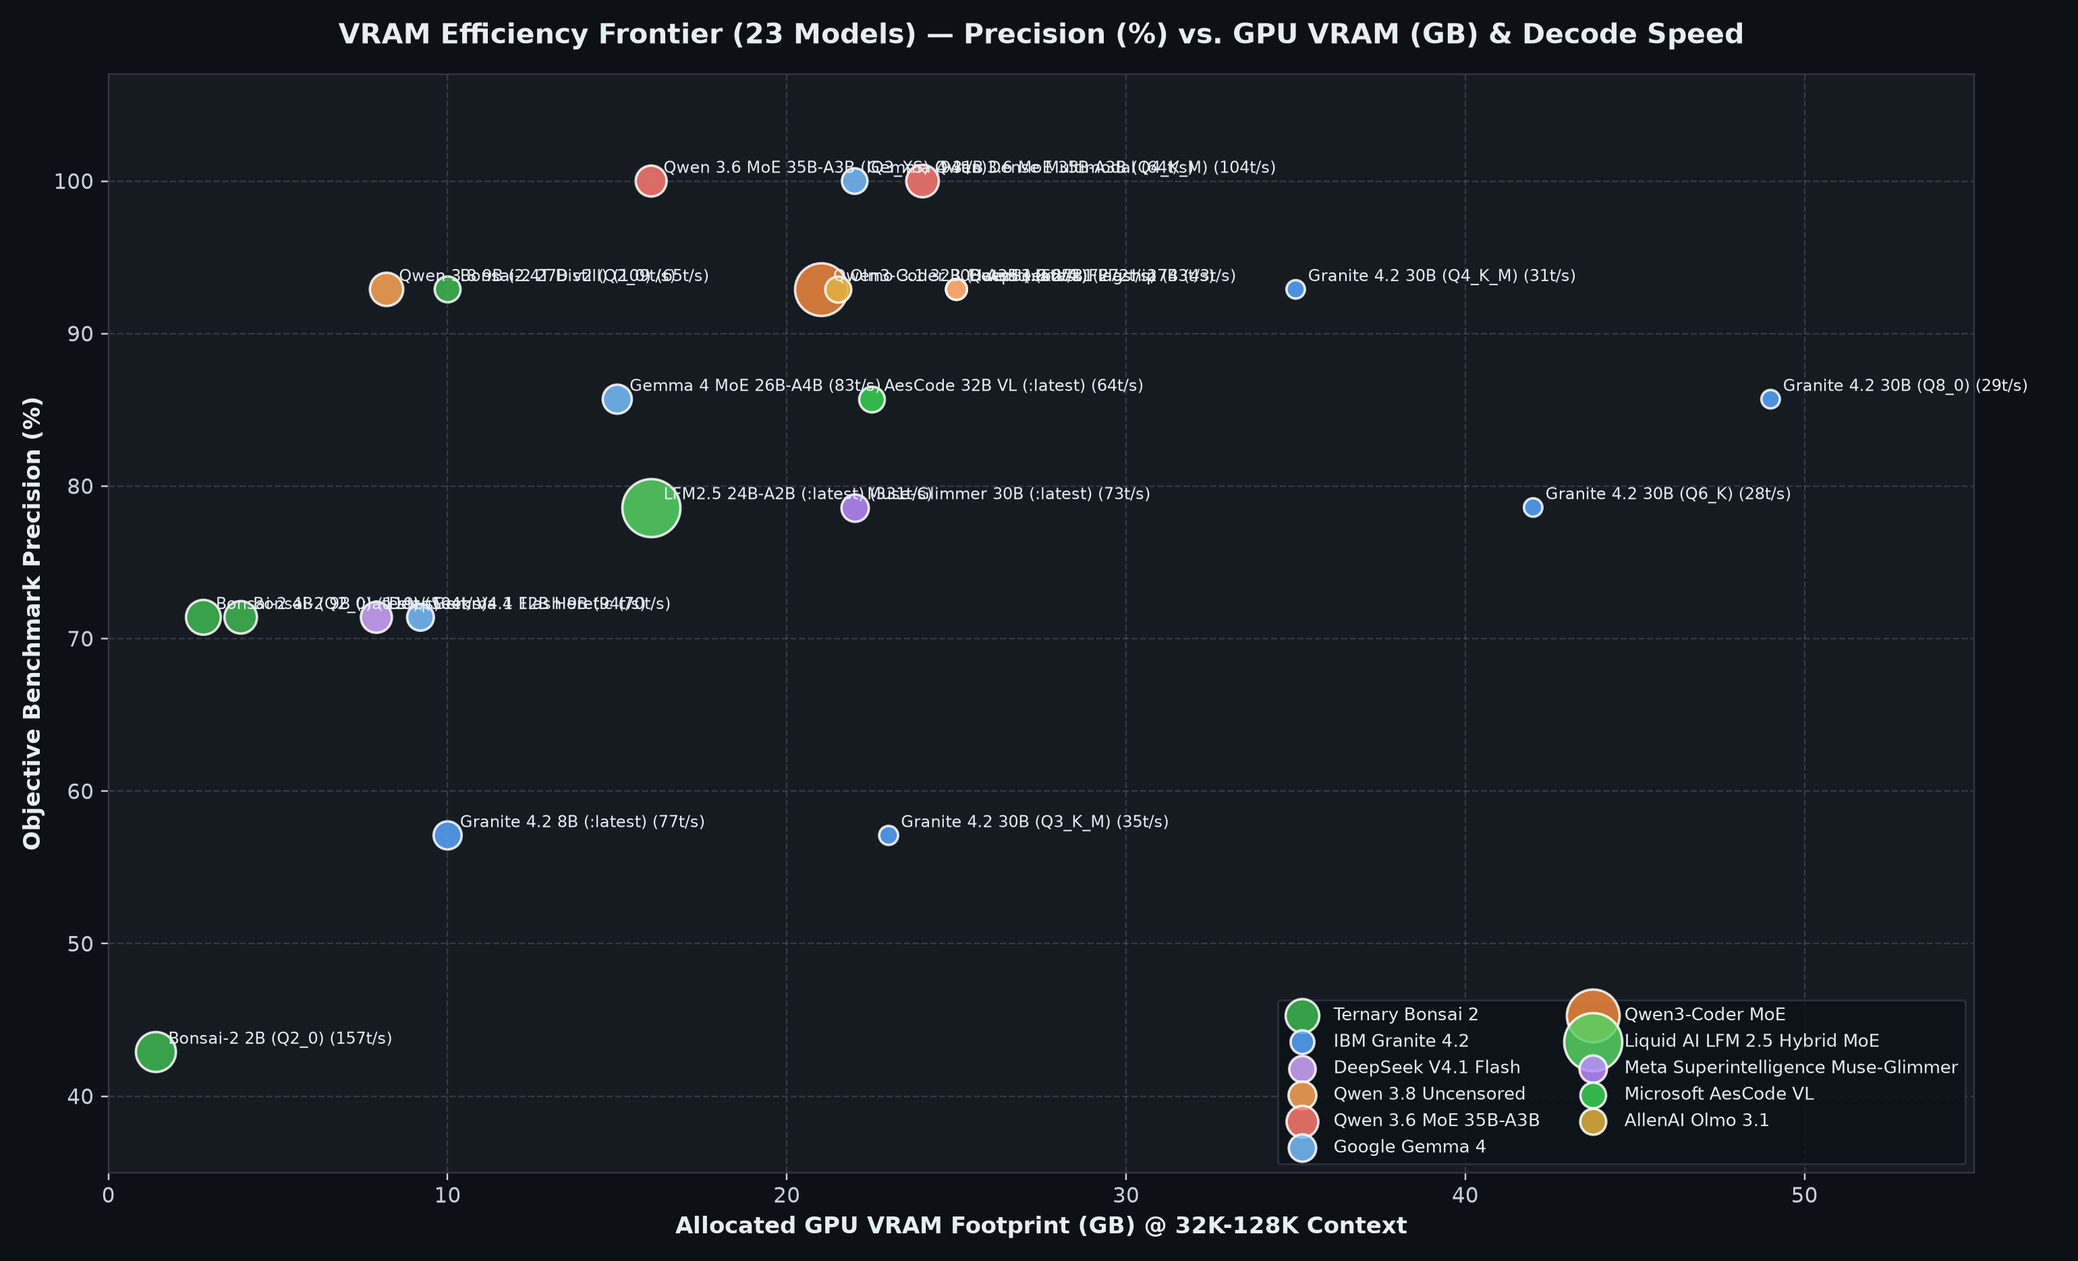
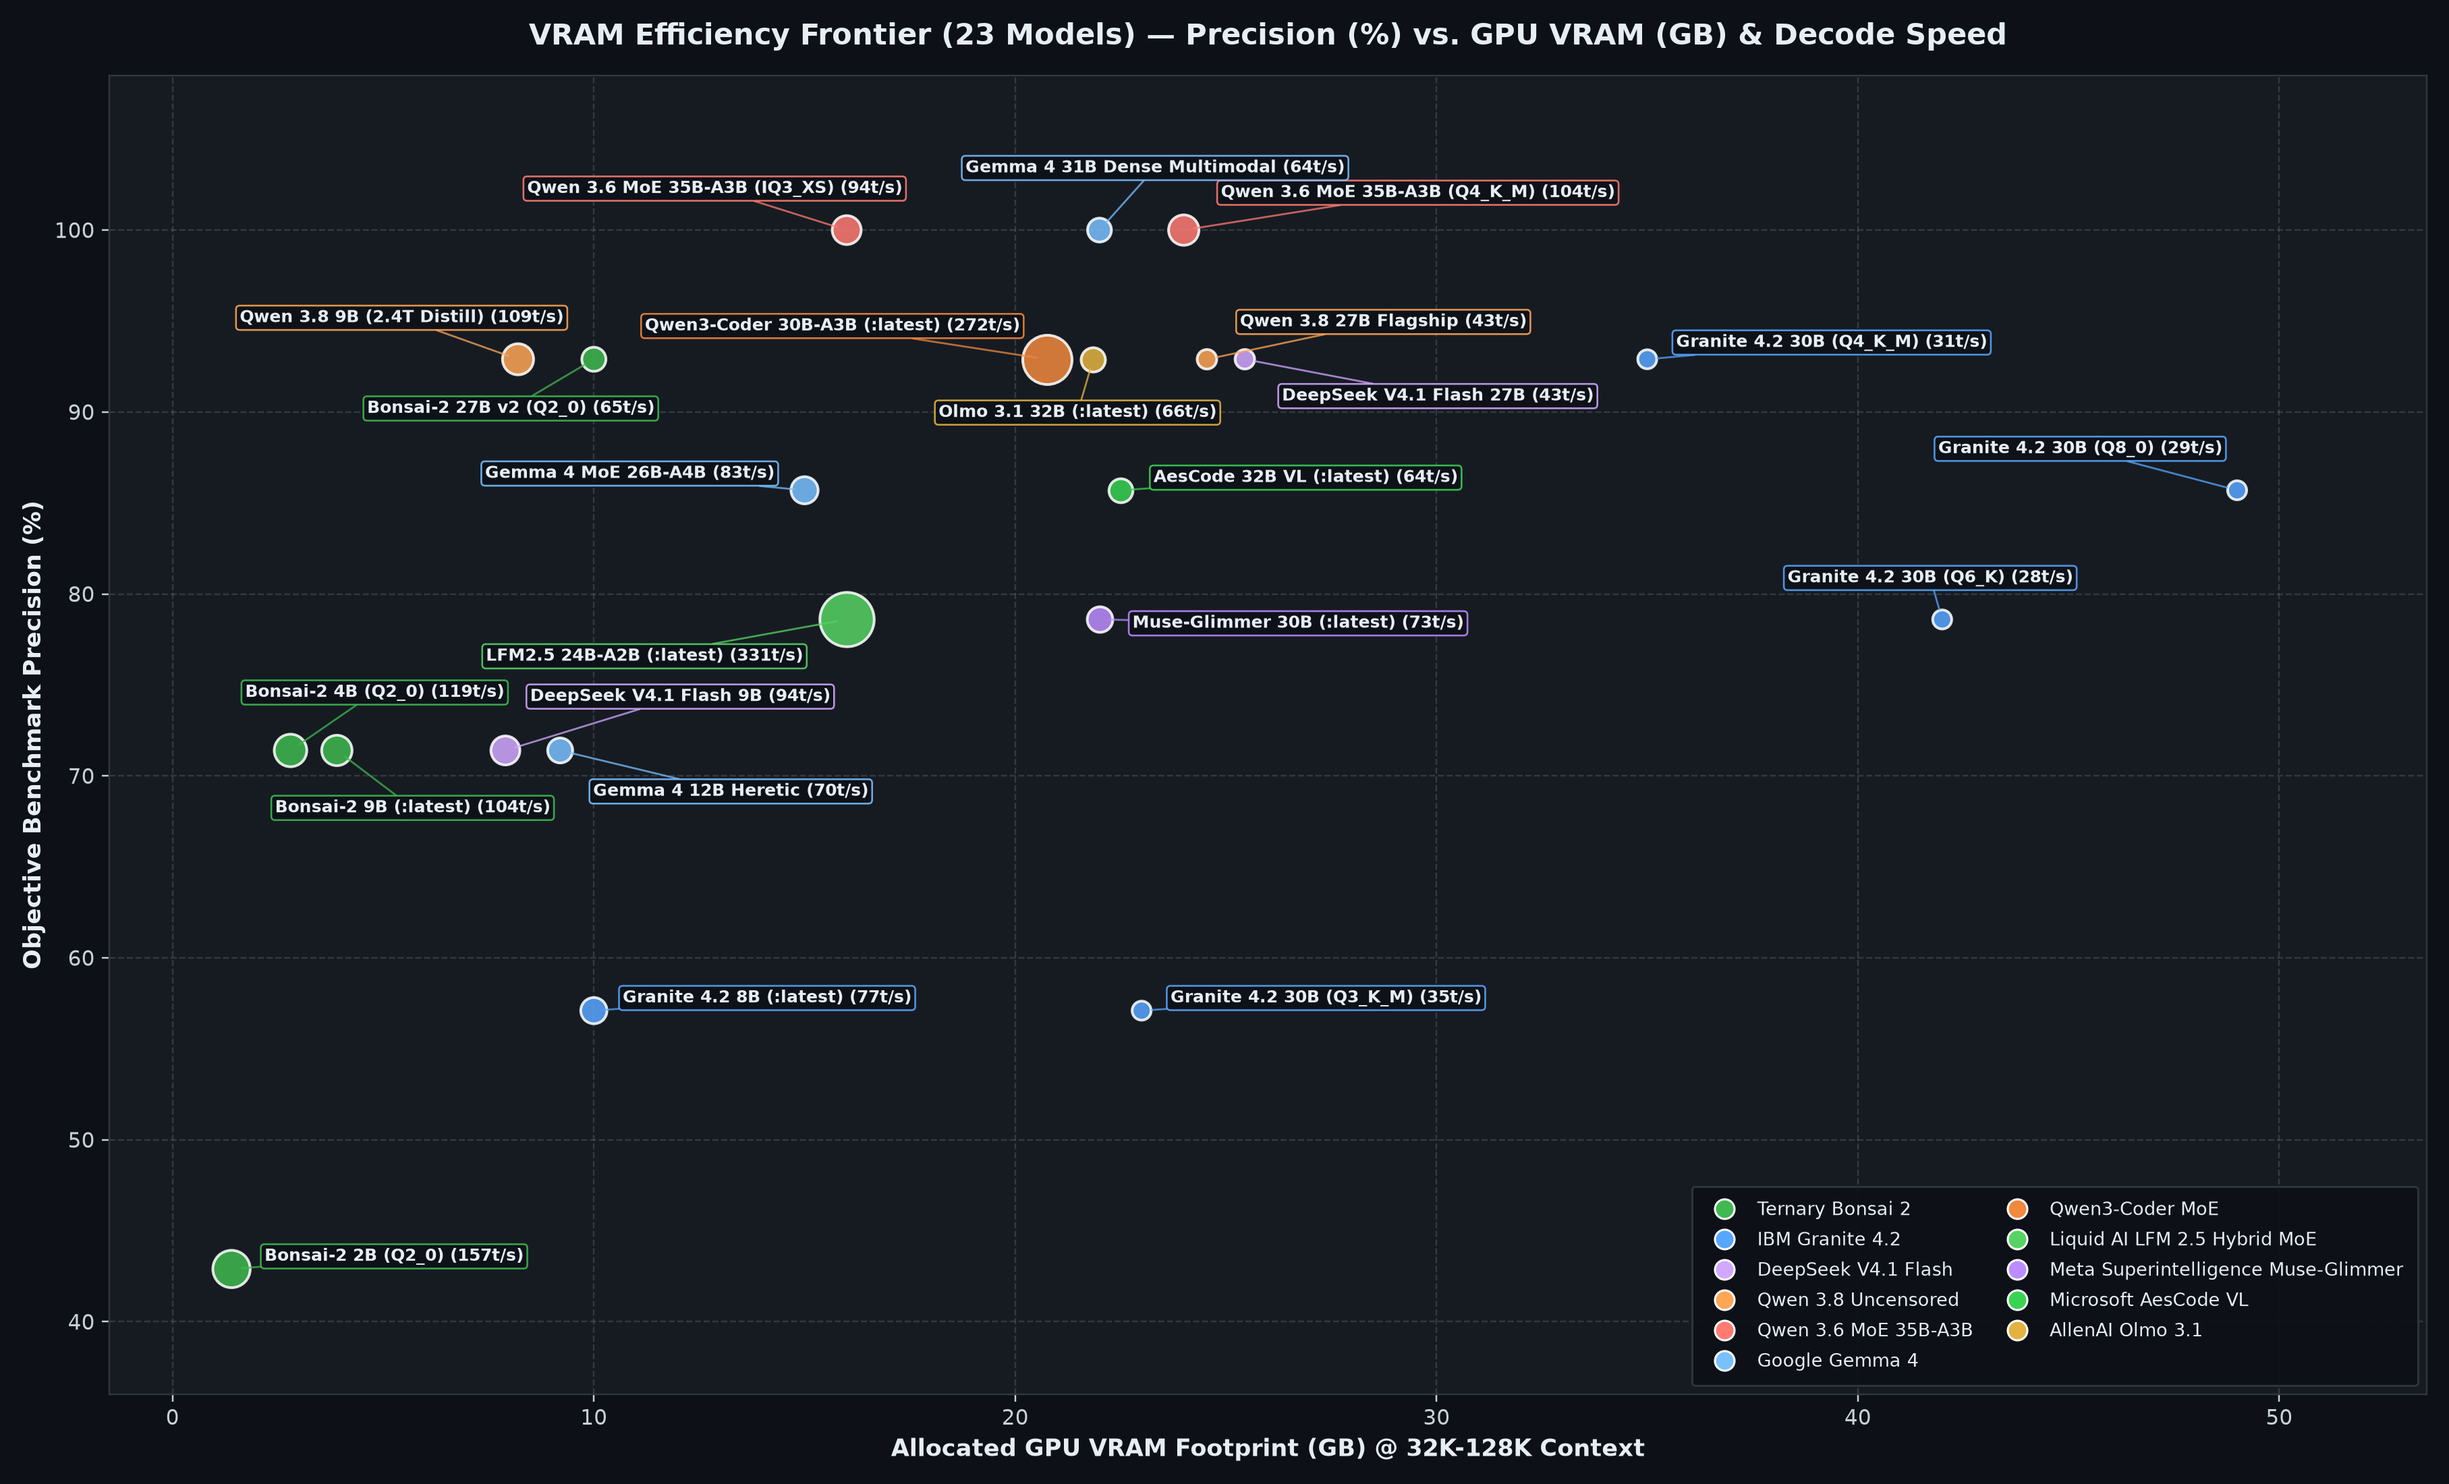
fix(charts): eliminate label and legend overlaps in chart_03_vram_efficiency_frontier.png

diff --git a/scripts/generate_repo_charts_and_readme.py b/scripts/generate_repo_charts_and_readme.py
@@ -456,7 +456,9 @@ def generate_charts(rows):
     plt.close()
 
     # Chart 3: VRAM Footprint (GB) vs Precision (%) Bubble Plot (sized by Decode Speed)
-    fig, ax = plt.subplots(figsize=(14, 8.5), dpi=220)
+    from matplotlib.lines import Line2D
+
+    fig, ax = plt.subplots(figsize=(16.5, 10.0), dpi=220)
     family_colors = {
         "Ternary Bonsai 2": "#3fb950",
         "IBM Granite 4.2": "#58a6ff",
@@ -470,37 +472,126 @@ def generate_charts(rows):
         "Microsoft AesCode VL": "#39d353",
         "AllenAI Olmo 3.1": "#e3b341",
     }
+
+    # Slight visual X separation for the two identical (25.0 GB, 92.9%) points so both bubbles are distinct
+    x_jitter_map = {
+        "eriktonon/qwen3.8-uncensored:27b": -0.45,
+        "eriktonon/deepseek-v4.1-flash-1017:27b": +0.45,
+        "eriktonon/qwen3-coder-uncensored:30b-a3b": -0.25,
+        "eriktonon/olmo3.1-uncensored:32b": +0.35,
+    }
+
+    # Custom non-overlapping (dx, dy) offsets in points for every model tag
+    label_offsets = {
+        # Band 100.0%
+        "eriktonon/qwen3.6-moe-uncensored:iq3": (-155, 18),
+        "eriktonon/gemma4-uncensored:31b": (-65, 28),
+        "eriktonon/qwen3.6-moe-uncensored:35b-a3b": (18, 16),
+        # Band 92.9%
+        "eriktonon/qwen3.8-uncensored:9b": (-135, 18),
+        "eriktonon/bonsai-2-uncensored:27b": (-110, -26),
+        "eriktonon/qwen3-coder-uncensored:30b-a3b": (-195, 14),
+        "eriktonon/olmo3.1-uncensored:32b": (-75, -28),
+        "eriktonon/qwen3.8-uncensored:27b": (16, 16),
+        "eriktonon/deepseek-v4.1-flash-1017:27b": (18, -20),
+        "eriktonon/granite4.2-uncensored:30b": (14, 6),
+        # Band 85.7%
+        "eriktonon/gemma4-uncensored:26b-a4b": (-155, 6),
+        "eriktonon/aescode-uncensored:32b": (16, 4),
+        "eriktonon/granite4.2-uncensored:30b-q8": (-145, 18),
+        # Band 78.6%
+        "eriktonon/lfm2.5-uncensored:24b-a2b": (-175, -20),
+        "eriktonon/muse-glimmer-uncensored:30b": (16, -4),
+        "eriktonon/granite4.2-uncensored:30b-q6": (-75, 18),
+        # Band 71.4%
+        "eriktonon/bonsai-2-uncensored:4b": (-22, 26),
+        "eriktonon/bonsai-2-uncensored:9b": (-30, -30),
+        "eriktonon/deepseek-v4.1-flash-1017:9b": (12, 24),
+        "eriktonon/gemma4-uncensored:12b": (16, -22),
+        # Band 57.1%
+        "eriktonon/granite4.2-uncensored:8b": (14, 4),
+        "eriktonon/granite4.2-uncensored:30b-q3": (14, 4),
+        # Band 42.9%
+        "eriktonon/bonsai-2-uncensored:2b": (16, 4),
+    }
+
+    legend_handles = []
     for fam, col in family_colors.items():
         sub = [r for r in rows if r["family"] == fam]
         if not sub:
             continue
+        xs = [r["vram_gb"] + x_jitter_map.get(r["tag"], 0.0) for r in sub]
+        ys = [r["precision_pct"] for r in sub]
+        sizes = [max(r["peak_decode_tok_s"] * 2.1, 85) for r in sub]
         ax.scatter(
-            [r["vram_gb"] for r in sub],
-            [r["precision_pct"] for r in sub],
-            s=[max(r["peak_decode_tok_s"] * 2.4, 80) for r in sub],
+            xs,
+            ys,
+            s=sizes,
             c=col,
-            alpha=0.85,
+            alpha=0.86,
             edgecolors="#ffffff",
-            linewidth=1.2,
-            label=fam,
+            linewidth=1.3,
+            zorder=3,
         )
-        for r in sub:
+        legend_handles.append(
+            Line2D(
+                [0],
+                [0],
+                marker="o",
+                color="none",
+                label=fam,
+                markerfacecolor=col,
+                markeredgecolor="#ffffff",
+                markeredgewidth=1.0,
+                markersize=9.5,
+            )
+        )
+        for r, x_val, y_val in zip(sub, xs, ys):
+            dx, dy = label_offsets.get(r["tag"], (10, 5))
             ax.annotate(
                 f"{r['short']} ({r['peak_decode_tok_s']:.0f}t/s)",
-                (r["vram_gb"], r["precision_pct"]),
-                xytext=(6, 4),
+                (x_val, y_val),
+                xytext=(dx, dy),
                 textcoords="offset points",
-                fontsize=8.0,
+                fontsize=8.2,
+                fontweight="bold",
                 color="#e6edf3",
+                bbox=dict(
+                    boxstyle="round,pad=0.22",
+                    facecolor="#0d1117",
+                    edgecolor=col,
+                    alpha=0.88,
+                    lw=0.85,
+                ),
+                arrowprops=dict(
+                    arrowstyle="-",
+                    color=col,
+                    lw=0.9,
+                    alpha=0.75,
+                    shrinkA=0,
+                    shrinkB=5,
+                ),
+                zorder=4,
             )
 
-    ax.set_xlabel("Allocated GPU VRAM Footprint (GB) @ 32K-128K Context", fontsize=11, fontweight="bold")
-    ax.set_ylabel("Objective Benchmark Precision (%)", fontsize=11, fontweight="bold")
-    ax.set_title("VRAM Efficiency Frontier (23 Models) — Precision (%) vs. GPU VRAM (GB) & Decode Speed", fontsize=13.5, fontweight="bold", pad=15)
-    ax.set_xlim(0, 55)
-    ax.set_ylim(35, 107)
-    ax.grid(True, linestyle="--", alpha=0.25, color="#8b949e")
-    ax.legend(loc="lower right", facecolor="#0d1117", edgecolor="#30363d", fontsize=8.5, ncol=2)
+    ax.set_xlabel("Allocated GPU VRAM Footprint (GB) @ 32K-128K Context", fontsize=11.5, fontweight="bold")
+    ax.set_ylabel("Objective Benchmark Precision (%)", fontsize=11.5, fontweight="bold")
+    ax.set_title("VRAM Efficiency Frontier (23 Models) — Precision (%) vs. GPU VRAM (GB) & Decode Speed", fontsize=14, fontweight="bold", pad=15)
+    ax.set_xlim(-1.5, 53.5)
+    ax.set_ylim(36, 108.5)
+    ax.grid(True, linestyle="--", alpha=0.25, color="#8b949e", zorder=1)
+    ax.legend(
+        handles=legend_handles,
+        loc="lower right",
+        facecolor="#0d1117",
+        edgecolor="#30363d",
+        fontsize=8.8,
+        ncol=2,
+        framealpha=0.94,
+        borderpad=0.8,
+        labelspacing=0.65,
+        columnspacing=1.4,
+    )
     plt.tight_layout()
     plt.savefig(os.path.join(ASSETS_DIR, "chart_03_vram_efficiency_frontier.png"), dpi=220)
     plt.close()
